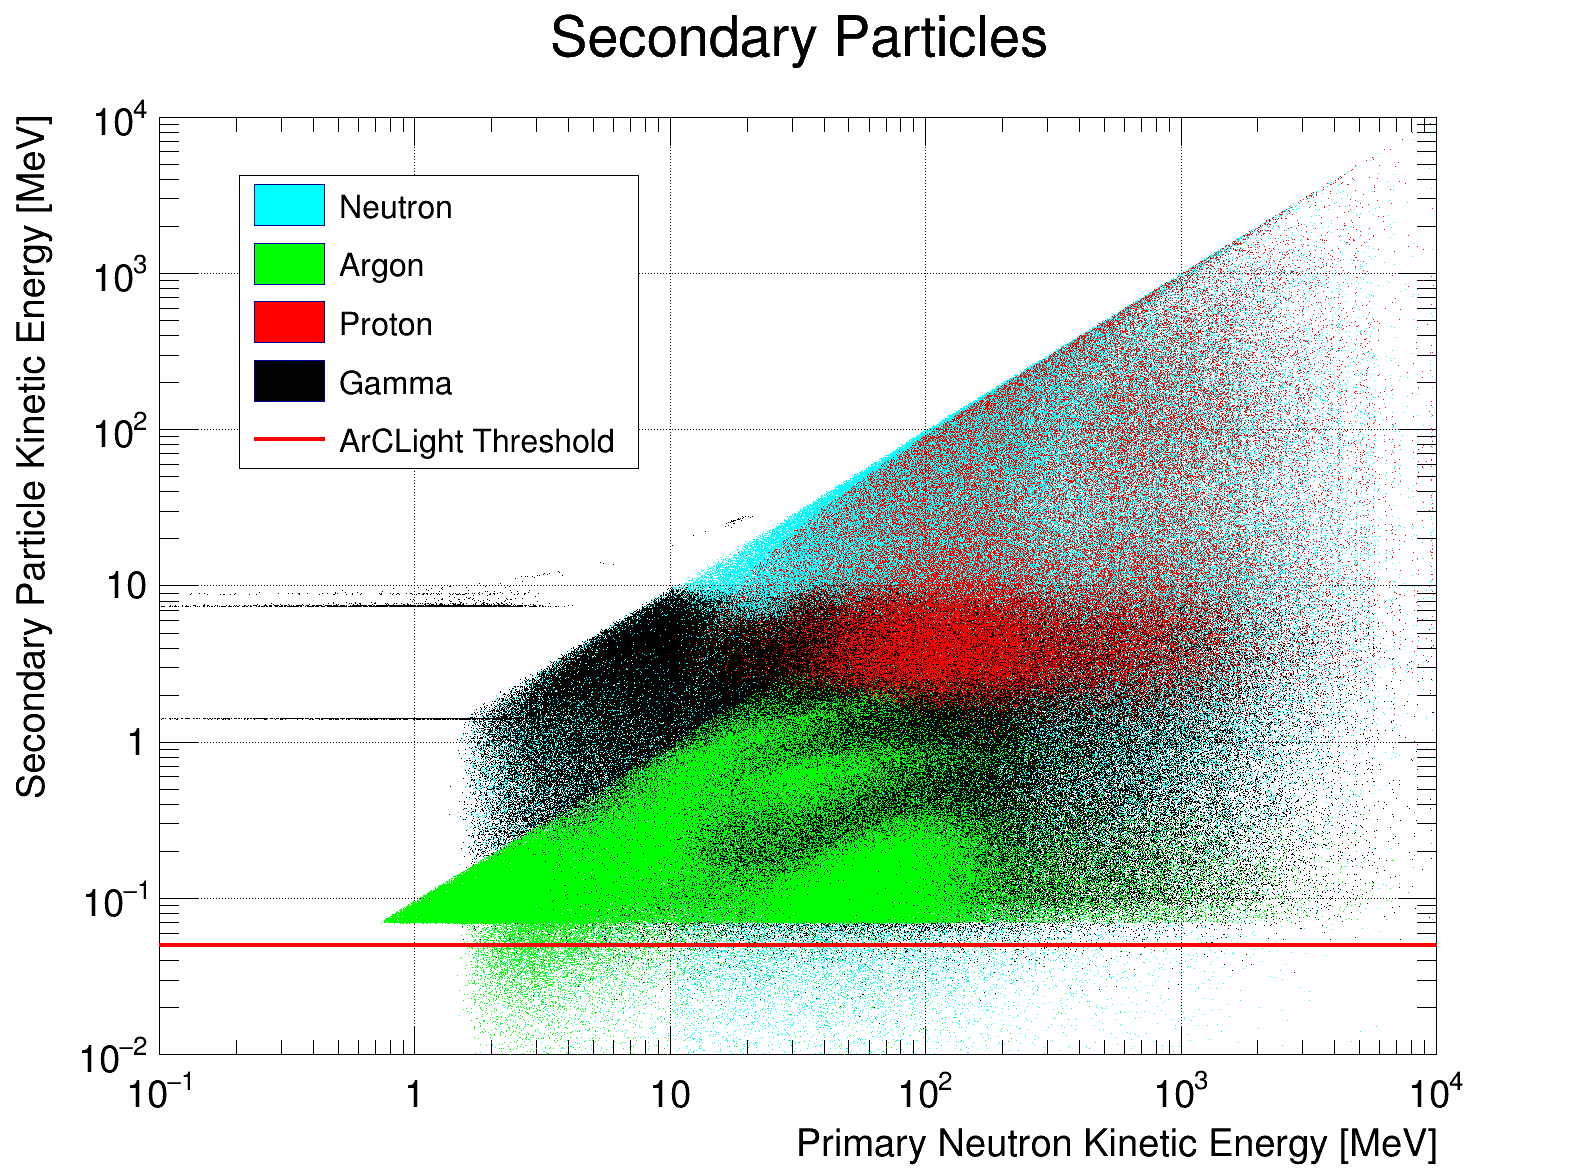
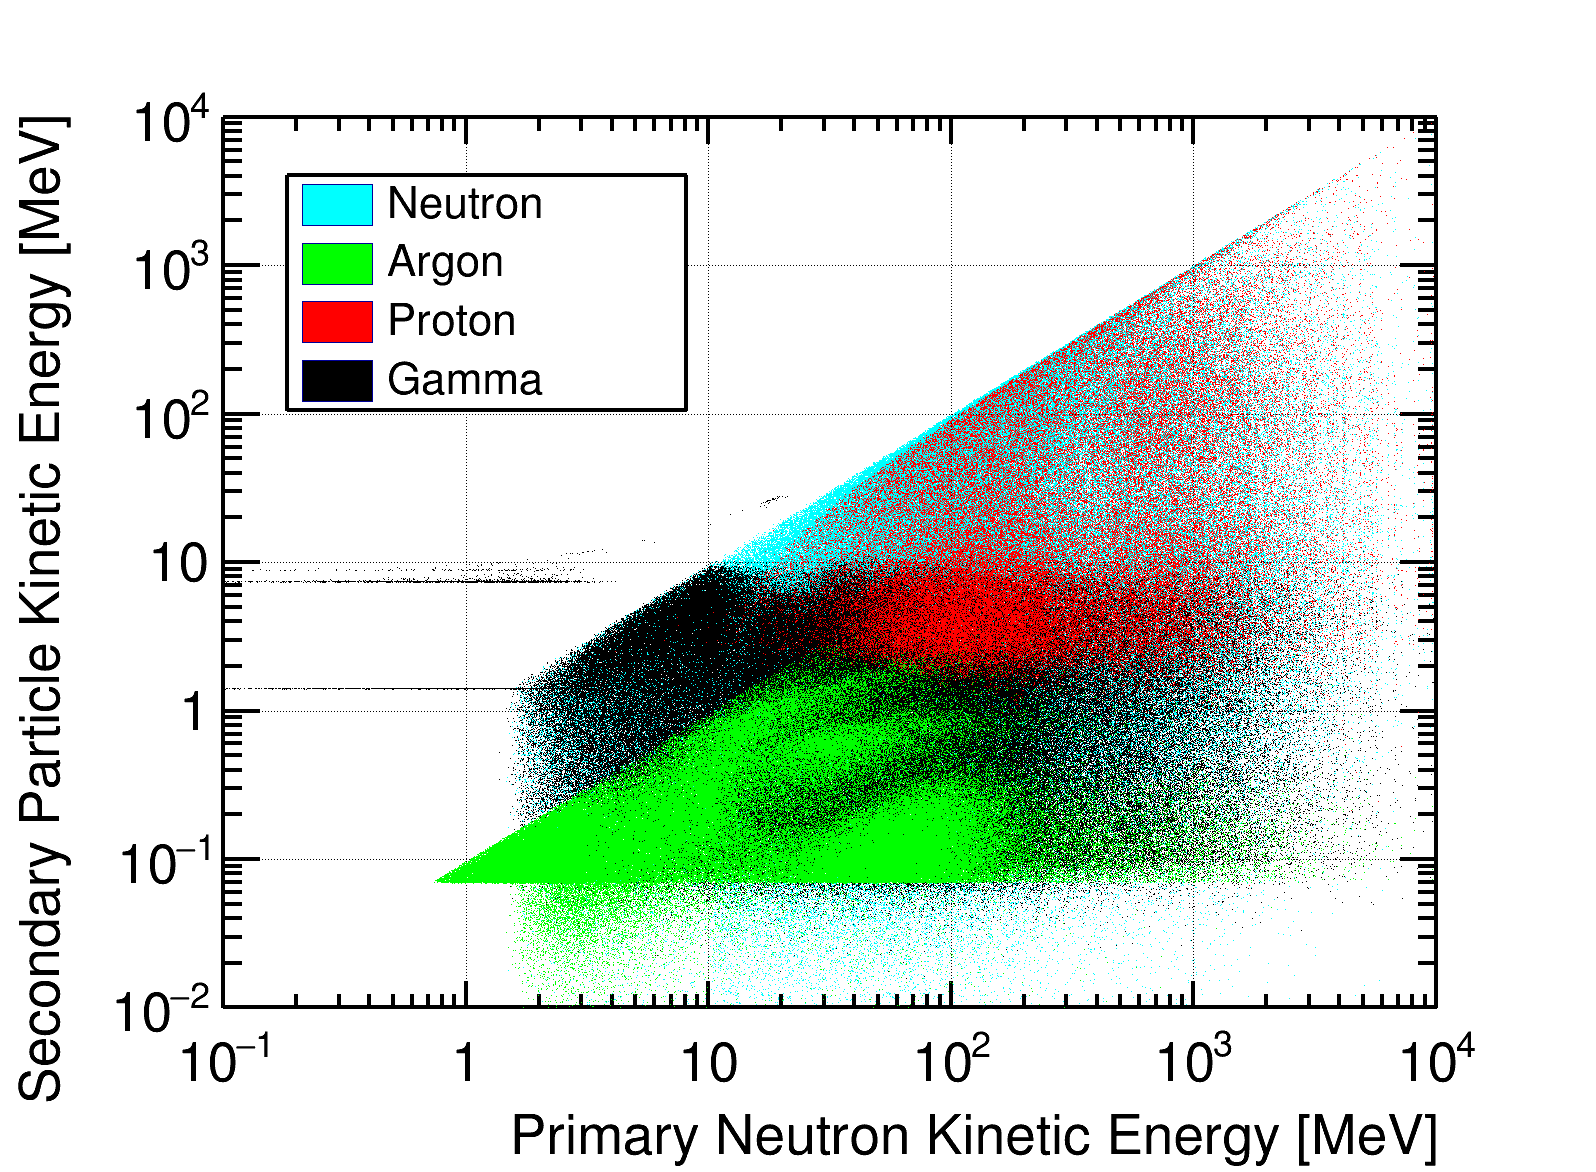
changed patrik's primary recoil plots - removed ArCLight threshold comment

diff --git a/PartDeux/introduction.tex b/PartDeux/introduction.tex
@@ -2,18 +2,20 @@
 \label{sec:introduction}
 
 \todo{rewrite a little... sections are directly copy and pasted from the old document.}
-The deployment of the ArgonCube 2x2 Demonstrator in the MINOS-ND hall as the core component of ProtoDUNE-ND, a neutrino engineering testbench for the DUNE near detector (ND) has been presented in Ref.~\cite{2x2@FNAL}. The ArgonCube 2x2 Demonstator will serve as an engineering test-stand for developing the techniques required to deploy a full-scale version of ArgonCube in the DUNE ND. This provides an essential opportunity to characterize the novel ArgonCube readout technologies response, and develop the reconstruction tools necessary for operating ArgonCube in the DUNE ND.
+The deployment of the ArgonCube 2x2 Demonstrator in the MINOS-ND hall as the core component of ProtoDUNE-ND, a neutrino engineering testbench for the DUNE near detector (ND) has been presented in Ref.~\cite{2x2@FNAL}. The ArgonCube 2x2 Demonstrator will serve as an engineering test-stand for developing the techniques required to deploy a full-scale version of ArgonCube in the DUNE ND. This provides an essential opportunity to characterize the novel ArgonCube readout technologies response, and develop the reconstruction tools necessary for operating ArgonCube in the DUNE ND.
 
-However, given the ArgonCube 2x2 Demonstrator's size and the relatively high energy NuMI ME beam, many events will not be contained in the 2x2 alone. Figure~\ref{fig:leaky_event} shows a neutral current event where many pions are produced, but in which the pions and subsequent hadronic showers extend far beyond the detector. Indeed, many such events would not be contained in the full ArgonCube deployment at the DUNE ND, in the LBNF beamline, and for charged-current events, the muon will be uncontained most of the time. For this reason, and because it is not possible to magnetize the large LAr component, further, magnetized, tracking detectors are proposed downstream of ArgonCube in the full DUNE ND complex, and the requirement to tag side-escaping particles is discussed in Ref.~\cite{dune_ndcsg}. Broadly speaking, three additional subdetector options are being considered for the DUNE-ND design, in addition to ArgonCube~\cite{dune_ndcsg}: the fully-active Three-Dimensional Scintillator Tracking (3DST) detector; a magnetized high pressure argon-gas TPC (HPgTPC); and a Cosmic Ray Tagging (CRT) system.
+However, given the 2x2's size and the relatively high energy NuMI ME beam, many events will not be contained in the 2x2 alone. Figure~\ref{fig:leaky_event} shows a neutral current event where many pions are produced, but in which the pions and subsequent hadronic showers extend far beyond the detector. Indeed, many such events would not be contained in the full ArgonCube deployment at the DUNE ND, in the LBNF beamline, and for charged-current events, the muon will be uncontained most of the time. For this reason, and because it is not possible to magnetize the large LAr component, further, magnetized, tracking detectors are proposed downstream of ArgonCube in the full DUNE ND complex, and the requirement to tag side-escaping particles is discussed in Ref.~\cite{dune_ndcsg}. Two additional subdetector options are being considered for the DUNE-ND design, in addition to ArgonCube~\cite{dune_ndcsg}: the Three-Dimensional Scintillator Tracking (3DST) detector; and a magnetized high pressure argon-gas TPC (HPgTPC).
+
 \begin{figure}[htb]
 	\centering
 	\includegraphics[width=0.8\textwidth]{{plots/EventDisplays/8.17GeV_rectangle_crop}.png}
-	\caption{Example ArgonBox simulated event for an 8.17 GeV $\nu_{\mu}$--argon neutral-current multi-pion interaction, in which the pions are not contained in the module. Energy deposits in a bulk volume of LAr are color-coded according to the particle type: $\pi^{\pm}$ --- blue; $\mu^{\pm}$ --- purple; $e^{+}$ --- green; $e^{-}$ --- yellow; proton --- red; recoiling nuclei --- black. The event vertex was randomly placed inside the active volume of the ArgonCube 2x2 Demonstrator, the geometry for which is superimposed on these images, but which is not simulated by ArgonBox.}
+	\caption{Example ArgonBox simulated event for an 8.17 GeV $\nu_{\mu}$--argon neutral-current multi-pion interaction, in which the pions are not contained in the module. Energy deposits in a bulk volume of LAr are color-coded according to the particle type: $\pi^{\pm}$ --- blue; $\mu^{\pm}$ --- purple; $e^{+}$ --- green; $e^{-}$ --- yellow; proton --- red; recoiling nuclei --- black. The event vertex was randomly placed inside the active volume of the ArgonCube 2x2 Demonstrator, the geometry for which is superimposed on these images, but which is not simulated by ArgonBox. Taken from Ref.~\cite{2x2@FNAL}}
 	\label{fig:leaky_event}
 \end{figure}
 
 Ref.~\cite{2x2@FNAL} notes that although the detector physics case for the ArgonCube 2x2 alone is compelling, a large fraction of the high energy on-axis NuMI medium energy (ME) beam would not be fully contained in the ArgonCube 2x2 Demonstrator alone, and a number of further, or extended, detector physics studies would be possible if and when additional subdetector prototypes are introduced to ProtoDUNE-ND. Prototypes for these detectors are currently being planned, and the ProtoDUNE-ND complex is intended to evolve over time to accommodate them. The cryogenic system for the ArgonCube 2x2 will be moveable to test key components of the DUNE-PRISM technical design, which will allow ProtoDUNE-ND to be easily reconfigured to accommodate any future prototype detectors. In the absence of prototypes for the HPgTPC or 3DST on a comparable scale as the 2x2, on the timeline of initial ProtoDUNE-ND operations in October 2020, in this document, we propose the ProtoDUNE-ND-Tracker, which uses repurposed MINERvA and MINOS-ND hardware, already on-axis in the NuMI medium energy (ME) beam, to provide a low cost tracking detector to enhance the detector physics reach of ProtoDUNE-ND, following the decommissioning of MINERvA in Summer 2019. This document is based on discussions with members of MINERvA and other active DUNE ND collaborators who have expressed an interest in joining the ProtoDUNE-ND effort.
 
-As well as expanding the phase-space of fully contained events, the proposed ProtoDUNE-ND-Tracker provides a functionally very similar detector to the fast scintillator detector components included in all potential DUNE ND configurations identified in Ref.~\cite{dune_ndcsg}. The ability to reconstruct tracks between a fast scintillator detector, and both liquid and gaseous argon TPCs, with a slow charge readout, but fast light readout, is a keystone of the future DUNE ND reconstruction. Studies pairing the ArgonCube 2x2 with components of MINERvA are presented in Section~\ref{sec:MINERvA}, including a discussion on track matching between fast and slow detectors and studies of acceptance and neutron tagging. Discussion of how MINOS-ND could be repurposed to provide a valuable further reference for calibrating the ProtoDUNE-ND response as a function of momentum is discussed in Section~\ref{sec:MINOS}. A cost estimate for the operation of the MINERvA components and method of reducing the running cost of MINOS is presented in Section~\ref{sec:costs}. Conclusions are presented in Section~\ref{sec:conclusions}.
+%check this after full read through
+As well as expanding the phase-space of fully contained events, the proposed ProtoDUNE-ND-Tracker provides a functionally very similar detector to the fast scintillator detector components included in all potential DUNE ND configurations identified in Ref.~\cite{dune_ndcsg}. The ability to reconstruct tracks between a fast scintillator detector, and both liquid and gaseous argon TPCs, with a slow charge readout, but fast light readout, is a keystone of the future DUNE ND reconstruction. Studies pairing the 2x2 with components of MINERvA are presented in Section~\ref{sec:MINERvA}, including a discussion on track matching between fast and slow detectors and studies of acceptance and neutron tagging. Discussion of how MINOS-ND could be repurposed to provide a valuable further reference for calibrating the ProtoDUNE-ND response as a function of momentum is discussed in Section~\ref{sec:MINOS}. A cost estimate for the operation of the MINERvA components and method of reducing the running cost of MINOS is presented in Section~\ref{sec:costs}. Conclusions are presented in Section~\ref{sec:conclusions}.
 
 % We note that clearly, the scientific benefit in having a downstream tracker included in ProtoDUNE-ND, or repurposing an existing tracker, must be evaluated against the technical feasibility and the availability of resources (person power and financial). These costs would have to be shared between ProtoDUNE-ND collaborators and Fermilab. 

diff --git a/PartDeux/minerva.tex b/PartDeux/minerva.tex
@@ -5,7 +5,8 @@ This section discusses the ProtoDUNE-ND-Tracker components to be repurposed from
 
 \subsection{Repurposing the MINERvA detector}
 \label{sec:minerva}
-The MINERvA detector is shown in Figure~\ref{fig:minerva_detector}. For the purpose of the discussion in this section, we will assume that the steel shield, scintillator veto plane, helium vessel, and nuclear targets region will be removed, and this setup will be refered to as the ``ProtoDUNE-ND-Tracker''.
+The MINERvA detector is shown in Figure~\ref{fig:minerva_detector}. For the purpose of the discussion in this section, we will assume that the steel shield, scintillator veto plane, helium vessel, and nuclear targets region will be removed, and this setup will be referred to as the ``ProtoDUNE-ND-Tracker''.
+
 \begin{figure}[htb]
   \centering
   \subfloat[Front view] {\label{fig:minerva_detector_front}\includegraphics[width=0.35\textwidth]{plots/minerva_module_transverse}}
@@ -14,6 +15,8 @@ The MINERvA detector is shown in Figure~\ref{fig:minerva_detector}. For the purp
   \label{fig:minerva_detector}
 \end{figure}
 
+%Side is integral, and not separatable from central tracker.
+
 The remaining central tracking region, and both the electromagnetic (EM) and hadronic calorimeters are divided into modules which consist mostly of hexagonal scintillator planes, each made of 127 triangular scintillator bars, arranged in three different orientations (60$^\circ$ rotations between each plane). There are 62 modules in the fully-active tracker region, each composed of two scintillator layers. A 15 cm border of 0.2 cm thick lead on the downstream end of each module provides EM calorimetry for particles exiting the side of the tracking region.
 
 The downstream EM calorimeter is composed of 10 modules, each with two scintillator planes and a 0.2 cm thick lead plate on the downstream end. There are 20 modules in the downstream hadronic calorimeter, each with a single scintillator plane and a 2.54 cm thick hexagonal steel plane. The outer detector consists of a steel frame supporting structure with embedded scintillator planes, as can be seen in Figure~\ref{fig:minerva_detector_front}, which turns the support structure into a hadronic calorimeter. The combination of the downstream and side EM and hadronic calorimeters allows for containment of most particles which escape from the central tracking region, and allows for particle identification and momentum measurements.
@@ -21,11 +24,15 @@ The downstream EM calorimeter is composed of 10 modules, each with two scintilla
 \begin{figure}[htb]
   \centering
   \includegraphics[width=0.8\textwidth]{{plots/Event_Displays_2x2_MINERvA/MINERvA_full_e70_rectangle_crop}.png}
-  \caption{Example simulated event for a 7.0 GeV $\nu_{\mu}$--argon charged-current interaction, in which particles not contained in the ArgonCube 2x2 enter the MINERvA central tracking region downstream. Energy deposits are color-coded according to the particle type: $\pi^{\pm}$ --- blue; $\mu^{\pm}$ --- purple; $e^{+}$ --- green; $e^{-}$ --- yellow; proton --- red; recoiling nuclei --- black. The event vertex was randomly placed inside the active volume of the 2x2 Demonstrator module.}
+  \caption{Example simulated event for a 7.0 GeV $\nu_{\mu}$--argon charged-current interaction, in which particles not contained in the ArgonCube 2x2 enter the ProtoDUNE-ND-Tracker downstream. Energy deposits are color-coded according to the particle type: $\pi^{\pm}$ --- blue; $\mu^{\pm}$ --- purple; $e^{+}$ --- green; $e^{-}$ --- yellow; proton --- red; recoiling nuclei --- black. The event vertex was randomly placed inside the active volume of the 2x2 Demonstrator module.}
   \label{fig:2x2+MINERvA_event}
 \end{figure}
 
-For the studies shown in this document, a simulation was performed approximating the downstream MINERvA central tracking region with a box of scintillator, and the ArgonCube 2x2 Demonstrator module upstream of the shortened MINERvA detector. Neutrino interactions are generated in the ArgonCube active volume, and propagated through an approximation of the ArgonCube 2x2 demonstrator and partial MINERvA detector with a Geant4-based program\footnote{\url{https://github.com/dadwyer/argon_box}}.  The MINERvA detector is approximated by a rectangular box, \SI[product-units=repeat]{1.4x1.4}{\metre\squared} in the dimensions transverse to the beam.  The simulation includes the most downstream 12 modules (24 planes) of the tracker region, as well as the full downstream ECAL and HCAL regions.  The rectangular box represents the central part of the MINERvA inner detector, and is large enough to cover the entire ArgonCube active volume. An example event is shown in Figure~\ref{fig:2x2+MINERvA_event}, and can be compared with ArgonCube 2x2-only events in Fig.~\ref{fig:leaky_event}, and in Ref.~\cite{2x2@FNAL} Fig. 7. Note that the ProtoDUNE-ND-Tracker simulation only includes the ArgonCube cryostat and repurposed MINERvA detector components, no material was included outside these (so escaping particles simply leave without ever re-interacting).
+For the studies shown in this document, a simulation was performed approximating the downstream MINERvA central tracking region with a box of scintillator, and the ArgonCube 2x2 Demonstrator module upstream of the shortened MINERvA detector.
+Neutrino interactions are generated in the ArgonCube active volume, and propagated through an approximation of the ArgonCube 2x2 demonstrator and partial MINERvA detector with a Geant4-based program\footnote{\url{https://github.com/dadwyer/argon_box}}.  
+The MINERvA detector is approximated by a rectangular box, \SI[product-units=repeat]{1.4x1.4}{\metre\squared} in the dimensions transverse to the beam.  
+The simulation includes the most downstream 12 modules (24 planes) of the tracker region, as well as the full downstream ECAL and HCAL regions.  
+The rectangular box represents the central part of the MINERvA inner detector, and is large enough to cover the entire ArgonCube active volume. An example event is shown in Figure~\ref{fig:2x2+MINERvA_event}, and can be compared with ArgonCube 2x2-only events in Fig.~\ref{fig:leaky_event}, and in Ref.~\cite{2x2@FNAL} Fig. 7. Note that the ProtoDUNE-ND-Tracker simulation only includes the ArgonCube cryostat and repurposed MINERvA detector components, no material was included outside these (so escaping particles simply leave without ever re-interacting).
 
 In the following, we discuss potential detector physics studies, or improvements to detector physics studies presented in Ref.~\cite{2x2@FNAL}, where we include ProtoDUNE-ND-Tracker downstream of the ArgonCube 2x2 module.
 

diff --git a/detector-physics-studies.tex b/detector-physics-studies.tex
@@ -73,7 +73,7 @@ The values for pixel pitch and ArCLight threshold used in the following studies 
   \caption{Kinetic-energy distribution of secondary particles with respect to incident neutron kinetic energy for neutron interactions in LAr, shown for 100,000 simulated neutrino events (which may have more than one neutron produced at the vertex).}
   \label{fig:neutron_recoils}
 \end{figure}
-Figure~\ref{fig:neutron_recoils} shows the kinetic energy of secondary particles after the interaction of a primary neutron in LAr. The horizontal red line gives the energy threshold for the detection of these secondary particles with ArCLight~\cite{arclight}, assuming a conversion of 40k photons per MeV. Clearly, both recoiling argon nuclei and recoiling protons have kinetic energies well above the ArCLight detection threshold. While recoiling argon nuclei show typical energies between 100~keV and 1~MeV, recoiling protons show energies $>$~1~MeV, up to several GeVs.
+Figure~\ref{fig:neutron_recoils} shows the kinetic energy of secondary particles after the interaction of a primary neutron in LAr. While recoiling argon nuclei show typical energies between 100~keV and 1~MeV, recoiling protons show energies $>$~1~MeV, up to several GeVs.
 
 \begin{figure}[htbp]
   \centering
